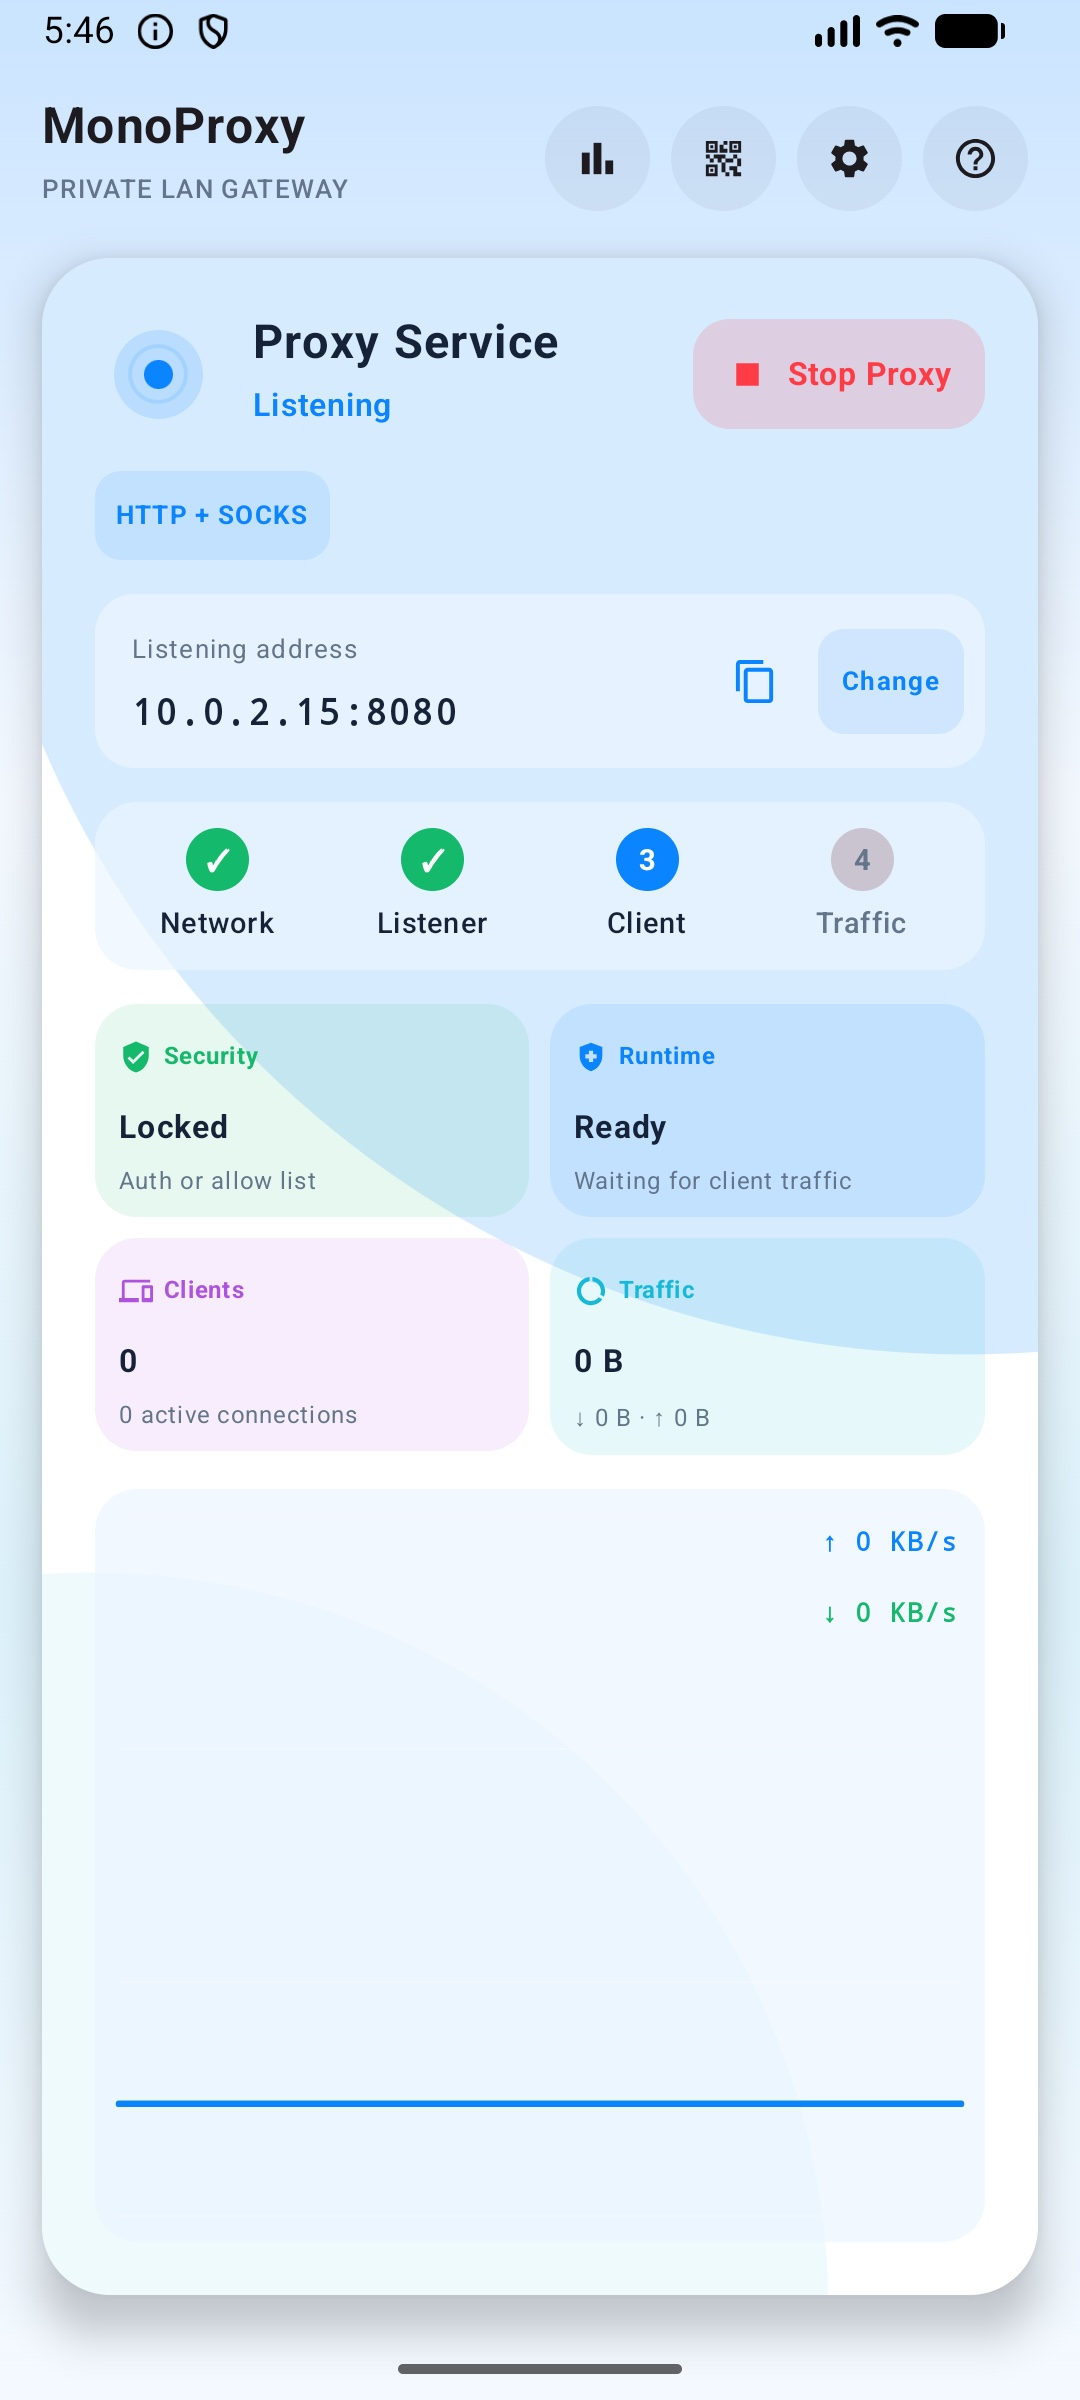
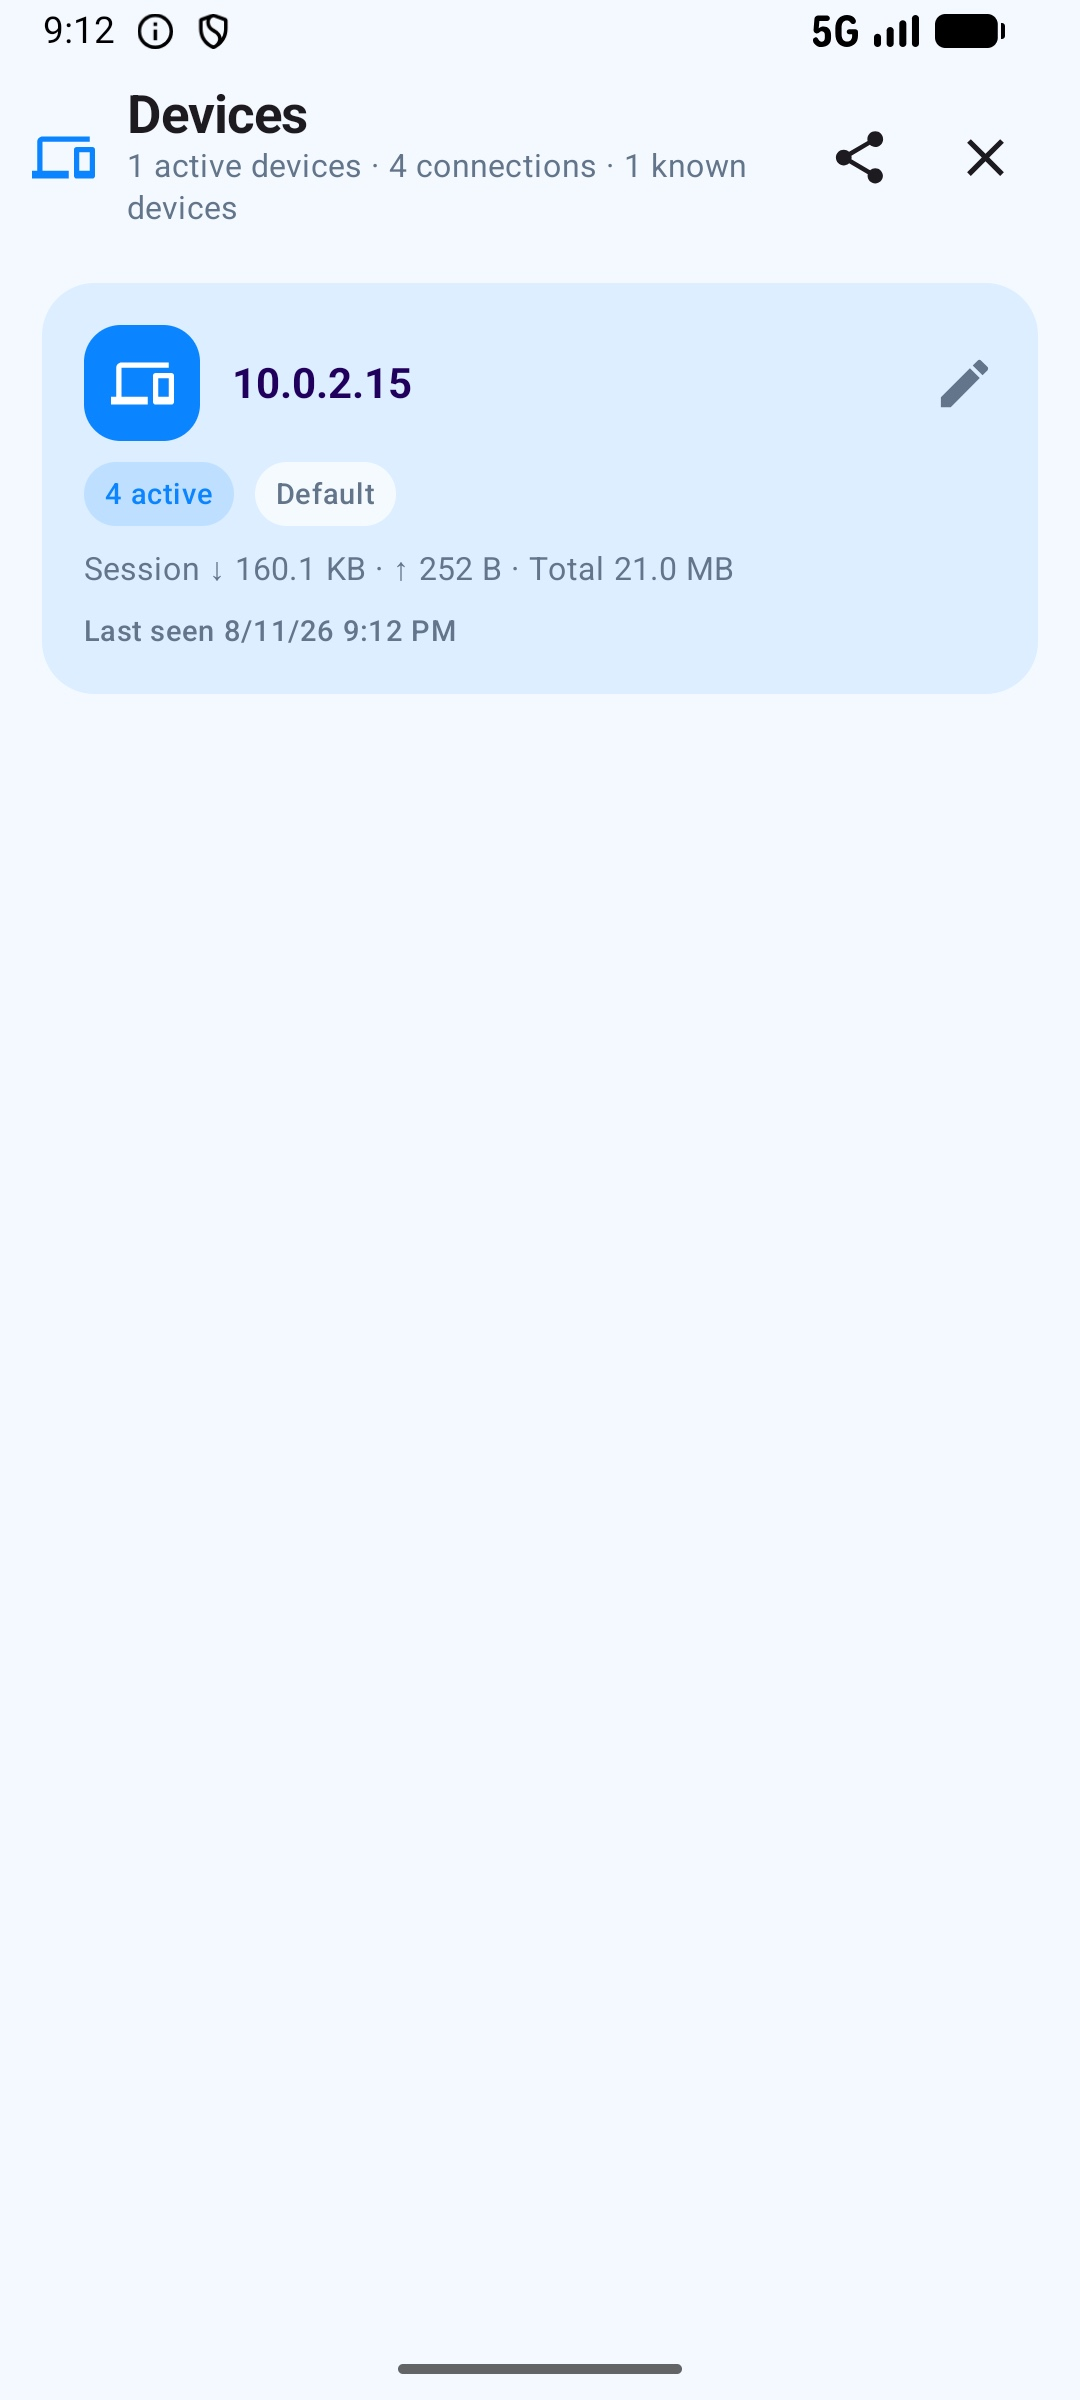
Replace duplicate Android feature screenshots

diff --git a/android/index.html b/android/index.html
@@ -671,7 +671,7 @@
             <p data-i18n="feature.controlBody">Configure SOCKS, authentication, private LAN access, outbound network mode, trusted network resume and local analytics.</p>
           </div>
           <div class="screen-well">
-            <div class="screen-shot"><img src="../images/android/settings.jpg?v=20260811-wave2" width="1080" height="2400" alt="MonoProxy Android settings screen" loading="lazy" decoding="async"></div>
+            <div class="screen-shot"><img src="../images/android/settings.jpg?v=20260811-correct2" width="1080" height="2400" alt="MonoProxy Android settings screen" loading="lazy" decoding="async"></div>
           </div>
         </article>
 
@@ -682,7 +682,7 @@
             <p data-i18n="feature.devicesBody">Group clients by IP, add aliases, disconnect sessions, temporarily block devices and apply per-client limits for connections, bandwidth and quota.</p>
           </div>
           <div class="screen-well green">
-            <div class="screen-shot"><img src="../images/android/device_management.jpg?v=20260811-wave2" width="1080" height="2400" alt="MonoProxy Android device management screen" loading="lazy" decoding="async"></div>
+            <div class="screen-shot"><img src="../images/android/device_management.jpg?v=20260811-correct2" width="1080" height="2400" alt="MonoProxy Android device management screen" loading="lazy" decoding="async"></div>
           </div>
         </article>
       </div>
